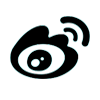
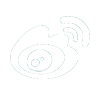
update contact page

Changed region(s): [[0.09, 0.15, 0.9, 0.81]]

diff --git a/App/Home/View/Index/aboutme.html b/App/Home/View/Index/aboutme.html
@@ -71,6 +71,11 @@
             <section class="forth" id="page4">
                  <h3>—— Contact ——</h3>
                  <div class="mes-contain">
+                  <div class="contact-icon">
+                      <a href="#"><img src="__PUBLIC__/Home/IMG/weibo.png"></a>
+                        <a href="#"><img src="__PUBLIC__/Home/IMG/home.png"></a>
+                          <a href="#"><img src="__PUBLIC__/Home/IMG/weixin.png"></a>
+                  </div>
                      <div class="mes-post">
                      <span class="post-text">
                          <textarea  class="inp inp-text" onfocus="this.value=''"/>给我留言吧！</textarea>
@@ -97,7 +102,7 @@
                              <span class="id-name">安望云海：</span>
                          </span>
                          <span class="item-con">
-                             地方第三个第四个是的归属感
+                             地方第三个第四个是的归属感 地方第三个第四个是的归属感,真好大大咧咧大大的k；拉开打开了大吉大利咯角度来看经历打卡记录看得见啊率大开绿灯 地方第三个第四个是的归属感,真好大大咧咧大大的k；拉开打开了大吉大利咯角度来看经历打卡记录看得见啊率大开绿灯
                          </span>
                          </div>
                          <div class="mes-item">
@@ -106,7 +111,16 @@
                              <span class="id-name">陈安阳：</span>
                          </span>
                          <span class="item-con">
-                             地方第三个第四个是的归属感
+                             地方第三个第四个是的k；拉开打开了大吉大利咯角度来看经历打卡记录看得见啊率大开绿灯 地方第三个第四个是的归属感,真好大大咧咧大大的k；拉开打开了大吉大利咯角度来看经历打卡记录看得见啊率大开绿灯归属感
+                         </span>
+                         </div>
+                         <div class="mes-item">
+                         <span class="item-id">
+                             <i class="id-icon">2</i>
+                             <span class="id-name">打开海：</span>
+                         </span>
+                         <span class="item-con">
+                             地方第三个第四个是的归的k；拉开打开属感
                          </span>
                          </div>
                          <div class="mes-item">
@@ -115,7 +129,7 @@
                              <span class="id-name">安望云海：</span>
                          </span>
                          <span class="item-con">
-                             地方第三个第四个是的归属感
+                             地方第三个第四的k；拉开打开的归属感
                          </span>
                          </div>
                          <div class="mes-item">
@@ -124,7 +138,7 @@
                              <span class="id-name">安望云海：</span>
                          </span>
                          <span class="item-con">
-                             地方第三个第四个是的归属感
+                             地方第三个第四个是的
                          </span>
                          </div>
                          <div class="mes-item">
@@ -133,7 +147,7 @@
                              <span class="id-name">安望云海：</span>
                          </span>
                          <span class="item-con">
-                             地方第三个第四个是的归属感
+                             地方第三个第四的k；拉开打开的k；拉开打开的k；拉开打开的k；拉开打开
                          </span>
                          </div>
                          <div class="mes-item">
@@ -142,22 +156,12 @@
                              <span class="id-name">安望云海：</span>
                          </span>
                          <span class="item-con">
-                             地方第三个第四个是的归属感
-                         </span>
-                         </div>
-                         <div class="mes-item">
-                         <span class="item-id">
-                             <i class="id-icon">2</i>
-                             <span class="id-name">安望云海：</span>
-                         </span>
-                         <span class="item-con">
-                             地方第三个第四个是的归属感
+                             地方第三个的k；拉开打开的k；拉开打开的k；拉开打开的k；拉开打开
                          </span>
                          </div>
                           
                      </div>
                  </div>
-             <include file="Public:footer"/>
              </section>
         </div>
     </body>

diff --git a/Public/Home/CSS/aboutme.css b/Public/Home/CSS/aboutme.css
@@ -184,6 +184,12 @@ section h3{
 	color: #fff;
 
 }
+.contact-icon{
+	width: 100%;
+	height: 20%;
+	border:1px solid;
+	margin-bottom: 3%;
+}
 .mes-post{
 	width: 100%;
 	height: 15%;
@@ -194,9 +200,9 @@ section h3{
 	width: 100%;
 	height: 70%;
 	margin: auto;
-	border: 2px solid rgba(255,255,255,1);
-	border-top: 2px solid rgba(255,255,255,1);
-	border-bottom: 2px solid rgba(255,255,255,1);
+	border: 1px dotted rgba(255,255,255,1);
+	border-top: 1px dotted rgba(255,255,255,1);
+	border-bottom: 1px dotted rgba(255,255,255,1);
 	padding: 2px 5px 2px 2px ;
 	overflow-y: scroll;
 	overflow-x:hidden;
@@ -229,10 +235,11 @@ background:#FF0BEE;
 }
 .mes-item{
 	width: 100%;
-	height: 18%;
 	margin: auto;
-	margin-top: 3px;
-	border-bottom: 1px solid;
+	border-bottom: 1px dotted;
+	display: block;
+	clear: both;
+
 }
 .item-id{
 	display: block;
@@ -247,7 +254,6 @@ background:#FF0BEE;
 	height: auto;
 	border: 1px solid;
 	border-radius: 30px;
-	float: left;
 	position: relative;
 	top: 50%;
 	margin: -18px 5px 0 5px;
@@ -262,7 +268,7 @@ background:#FF0BEE;
 .item-con{
 	display: block;
 	width: 78%;
-	height: 90%;
+	height: auto;
 	float: left;
 	line-height: 40px;
 }

diff --git a/App/Runtime/Cache/Home/e81ef28f88face4eee79d33cceed2ce2.php b/App/Runtime/Cache/Home/e81ef28f88face4eee79d33cceed2ce2.php
@@ -71,6 +71,11 @@
             <section class="forth" id="page4">
                  <h3>—— Contact ——</h3>
                  <div class="mes-contain">
+                  <div class="contact-icon">
+                      <a href="#"><img src="/W3CAY/Public/Home/IMG/weibo.png"></a>
+                        <a href="#"><img src="/W3CAY/Public/Home/IMG/home.png"></a>
+                          <a href="#"><img src="/W3CAY/Public/Home/IMG/weixin.png"></a>
+                  </div>
                      <div class="mes-post">
                      <span class="post-text">
                          <textarea  class="inp inp-text" onfocus="this.value=''"/>给我留言吧！</textarea>
@@ -97,7 +102,7 @@
                              <span class="id-name">安望云海：</span>
                          </span>
                          <span class="item-con">
-                             地方第三个第四个是的归属感
+                             地方第三个第四个是的归属感 地方第三个第四个是的归属感,真好大大咧咧大大的k；拉开打开了大吉大利咯角度来看经历打卡记录看得见啊率大开绿灯 地方第三个第四个是的归属感,真好大大咧咧大大的k；拉开打开了大吉大利咯角度来看经历打卡记录看得见啊率大开绿灯
                          </span>
                          </div>
                          <div class="mes-item">
@@ -106,7 +111,16 @@
                              <span class="id-name">陈安阳：</span>
                          </span>
                          <span class="item-con">
-                             地方第三个第四个是的归属感
+                             地方第三个第四个是的k；拉开打开了大吉大利咯角度来看经历打卡记录看得见啊率大开绿灯 地方第三个第四个是的归属感,真好大大咧咧大大的k；拉开打开了大吉大利咯角度来看经历打卡记录看得见啊率大开绿灯归属感
+                         </span>
+                         </div>
+                         <div class="mes-item">
+                         <span class="item-id">
+                             <i class="id-icon">2</i>
+                             <span class="id-name">打开海：</span>
+                         </span>
+                         <span class="item-con">
+                             地方第三个第四个是的归的k；拉开打开属感
                          </span>
                          </div>
                          <div class="mes-item">
@@ -115,7 +129,7 @@
                              <span class="id-name">安望云海：</span>
                          </span>
                          <span class="item-con">
-                             地方第三个第四个是的归属感
+                             地方第三个第四的k；拉开打开的归属感
                          </span>
                          </div>
                          <div class="mes-item">
@@ -124,7 +138,7 @@
                              <span class="id-name">安望云海：</span>
                          </span>
                          <span class="item-con">
-                             地方第三个第四个是的归属感
+                             地方第三个第四个是的
                          </span>
                          </div>
                          <div class="mes-item">
@@ -133,7 +147,7 @@
                              <span class="id-name">安望云海：</span>
                          </span>
                          <span class="item-con">
-                             地方第三个第四个是的归属感
+                             地方第三个第四的k；拉开打开的k；拉开打开的k；拉开打开的k；拉开打开
                          </span>
                          </div>
                          <div class="mes-item">
@@ -142,52 +156,12 @@
                              <span class="id-name">安望云海：</span>
                          </span>
                          <span class="item-con">
-                             地方第三个第四个是的归属感
-                         </span>
-                         </div>
-                         <div class="mes-item">
-                         <span class="item-id">
-                             <i class="id-icon">2</i>
-                             <span class="id-name">安望云海：</span>
-                         </span>
-                         <span class="item-con">
-                             地方第三个第四个是的归属感
+                             地方第三个的k；拉开打开的k；拉开打开的k；拉开打开的k；拉开打开
                          </span>
                          </div>
                           
                      </div>
                  </div>
-             <footer class="footer">
-    <div class="footer-con">
-        <a  href="http://w3cay.com" alt="关于我" title="关于我" target="_blank">
-        <div class="me">
-            <i class="myicon"><img  src="/W3CAY/Public/Home/IMG/myicon.png" alt="关于我" title="关于我" width="60"  height="60" /> </i>
-            <div class="mylink"></div>
-            <span class="mymoto"></span>
-            </a>
-        </div>
-        <div class="footer-left">
-            <div id="line"></div>
-
-            <span class="useread" >
-            Powered by <a href="http://www.thinkphp.cn"  rel="nofollow" target="_blank">ThinkPHP</a>
-            &nbsp
-            Host by
-            <a href="http://www.zzidc.com"  rel="nofollow" target="_blank">景安网络</a>
-            </span>
-            <span class="copyright">
-            <i class="copy-icon"></i> <a href="http://w3cay.com" target="_blank">安望云海|W3CAY</a>
-            &nbsp豫ICP备15003362号&nbsp 
-            <script type="text/javascript">
-            // var cnzz_protocol = (("https:" == document.location.protocol) ? " https://" : " http://");document.write(unescape("%3Cspan id='cnzz_stat_icon_1254403531'%3E%3C/span%3E%3Cscript src='" + cnzz_protocol + "s4.cnzz.com/z_stat.php%3Fid%3D1254403531' type='text/javascript'%3E%3C/script%3E"));
-            </script>
-            </span>
-        </div>
-    </div>
-<!--       <div class="totop"></div>-->
- </footer>
-</body>
-</html>
              </section>
         </div>
     </body>
